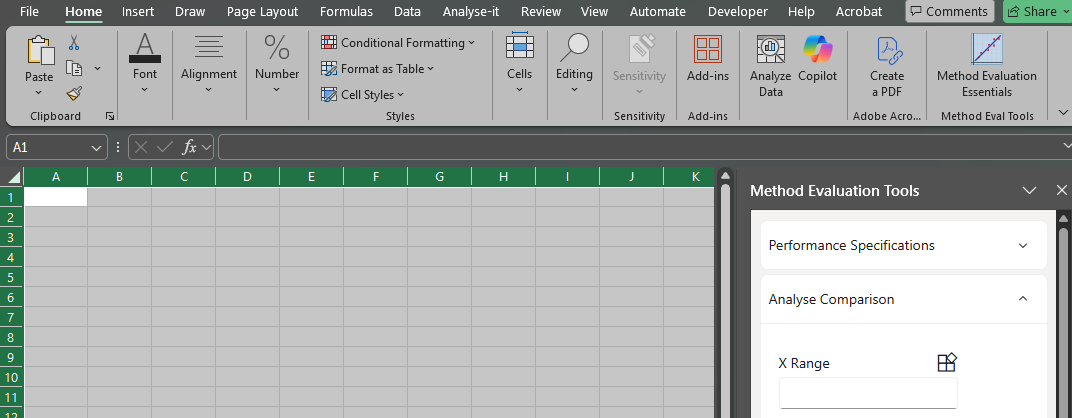
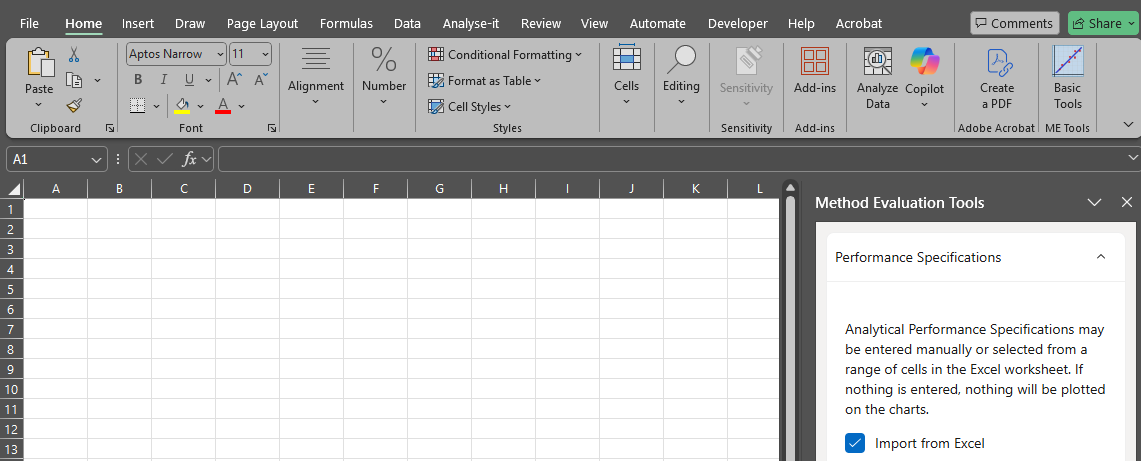
More documentation corrections

diff --git a/docs/index.html b/docs/index.html
@@ -696,7 +696,7 @@ npm config set https-proxy http://&lt;username&gt;:&lt;password&gt;@&lt;proxy-se
 </div>
 </div>
 <div class="paragraph">
-<p>In many cases if you run 'npm install' at this point you will get and untrusted
+<p>In many cases if you run 'npm install' at this point you will get an untrusted
 certificate error. This often occurs because your organisation uses its own
 Certificate Authority. To get around this you will need to either get root
 certificate from your IT department, export it from your web browser, or run
@@ -734,7 +734,7 @@ npm config set registry="http://registry.npmjs.org/"</pre>
 <div class="sectionbody">
 <div class="paragraph">
 <p>If the add-in is loaded correctly, you should see a new entry in the Home tab
-of the Excel ribbon called "Method Evaluation Tools". Clicking on this will
+of the Excel ribbon called "ME Tools". Clicking on the "Basic Tools" button will
 toggle the taskpane on the right-hand side of the Excel window.</p>
 </div>
 <div class="imageblock">
@@ -1521,7 +1521,7 @@ simply calculated as the tabulated value divided by the grand total. Let</p>
 </div>
 <div id="footer">
 <div id="footer-text">
-Last updated 2025-10-14 16:05:14 01000
+Last updated 2025-10-14 16:21:16 01000
 </div>
 </div>
 <script type="text/x-mathjax-config">
